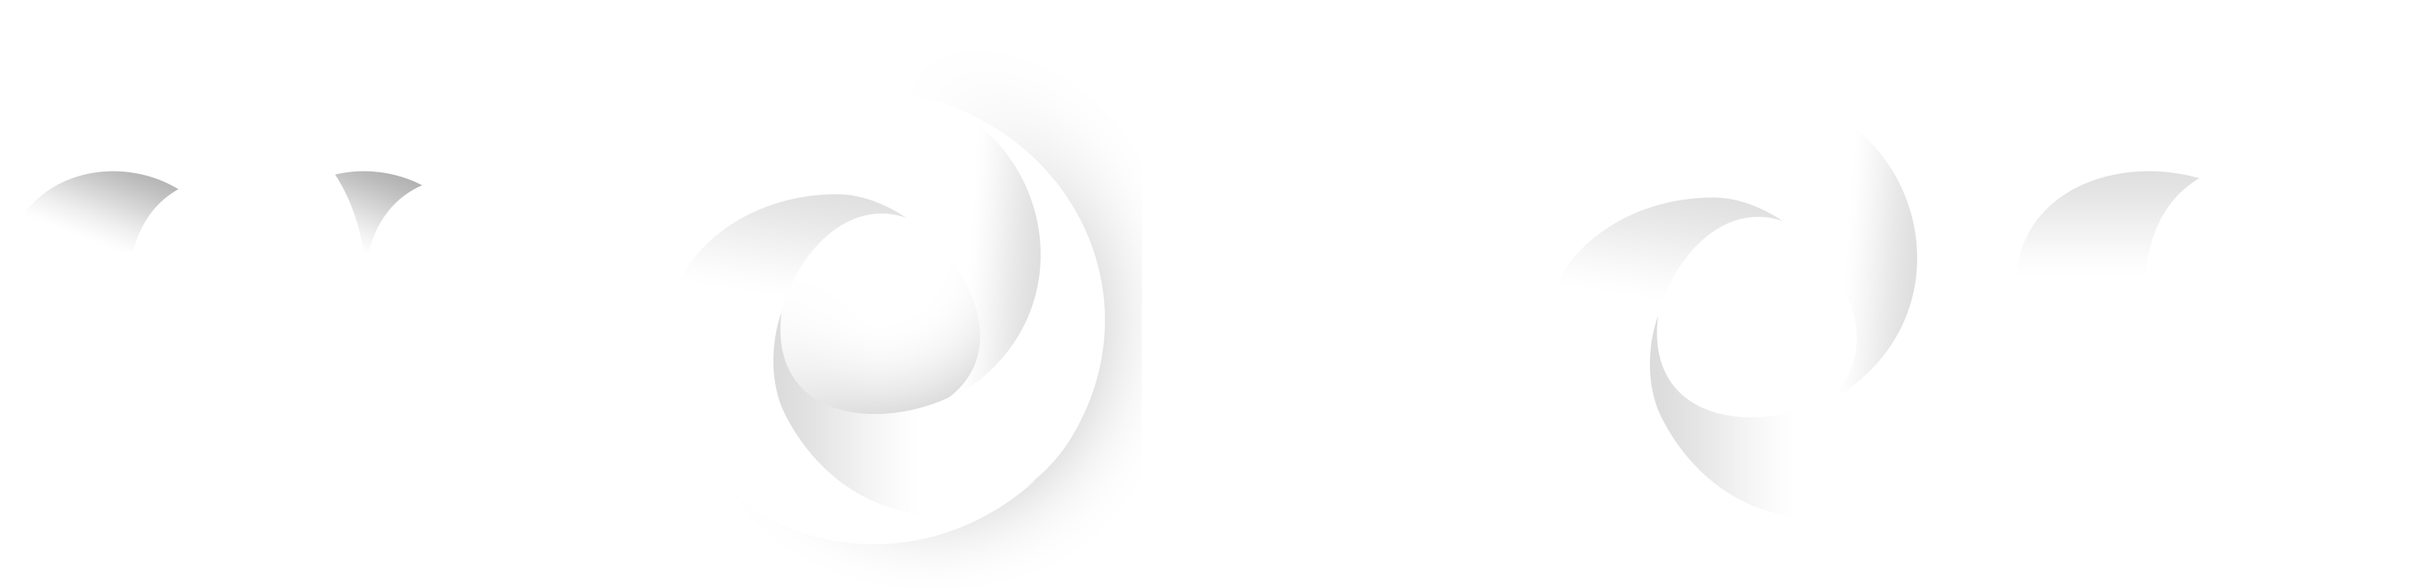
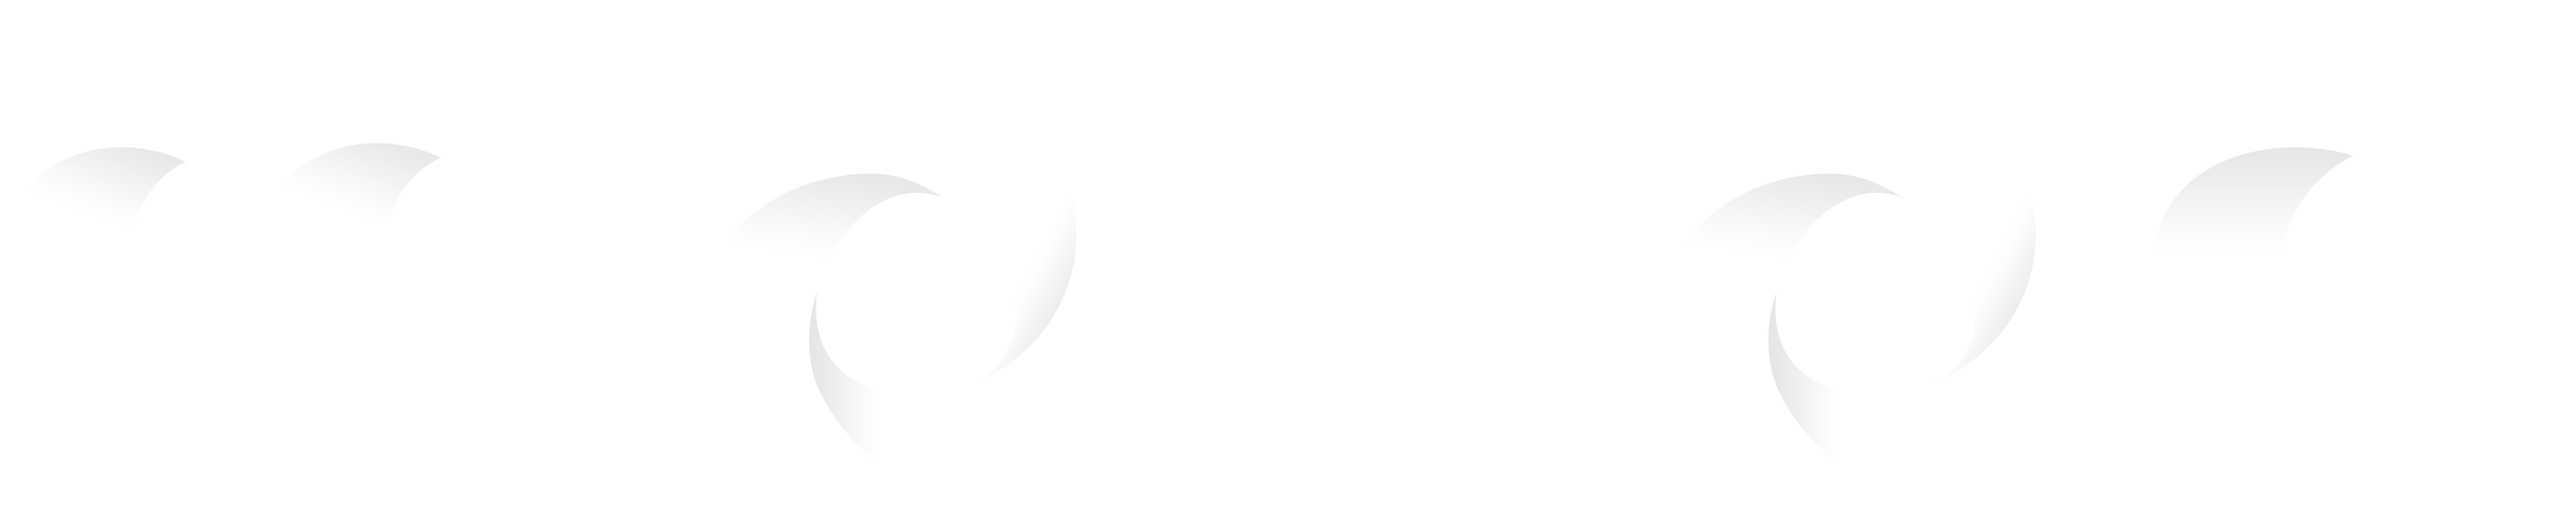
image

diff --git a/header.js b/header.js
@@ -115,11 +115,11 @@ function showInstall(e) {
 }
 
 view Logo {
-  <img root onClick={Flint.router.link(routes.home)} src="/assets/images/motion4.png" />
+  <img root onClick={Flint.router.link(routes.home)} src="/assets/images/motion3.png" />
 
-  const width = 2936
-  const height = 713
-  const multiplier = view.props.small ? .04 : .28
+  const width = 1250
+  const height = 280
+  const multiplier = view.props.small ? .09 : .28
 
   $img = {
     width: Math.round(width * multiplier),
